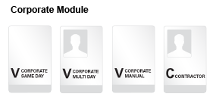
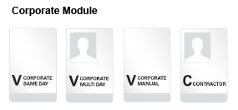
#217 module image panel make bigger

diff --git a/protected/assets/css/style.css b/protected/assets/css/style.css
@@ -1264,13 +1264,16 @@ dt.tabs dt{
 }
 
 .header-corporate{
-    width: 216px;
-    height: 100px;
+    width: 300px !important;
+    height: 110px;
     background:url("../images/Card-Panels-Corp-module.png") top left no-repeat !important ;
 }
+#workstation-grid_c3{
+    width: 50px !important;
+}
 .header-vic{
-    width: 272px;
-    height: 100px;
+    width: 400px !important;
+    height: 110px;
     background:url("../images/Card-Panels-VIC-module.png") top left no-repeat !important ;
 }
 

diff --git a/protected/views/workstation/_admin.php b/protected/views/workstation/_admin.php
@@ -30,7 +30,7 @@ $this->widget('zii.widgets.grid.CGridView', array(
             'header' => '',
             'type'=>'raw',
             'value' => '$data->getCorporateCardType()',
-            'htmlOptions'=>array('width'=>'216px'),
+            'htmlOptions'=>array('width'=>'300px' , 'height'=>'119px'),
             'headerHtmlOptions' => array('class'=>'header-corporate')
         ),
 
@@ -39,10 +39,10 @@ $this->widget('zii.widgets.grid.CGridView', array(
             'type'=>'html',
             'header' => '',
             'value' => '$data->getCorporateVic()',
-            'htmlOptions'=>array('width'=>'272px'),
+            'htmlOptions'=>array('width'=>'400px' , 'height'=>'119px'),
             'headerHtmlOptions' => array('class'=>'header-vic')
         ),
-        
+
         array(
             'header' => 'Actions',
             'class' => 'CButtonColumn',
